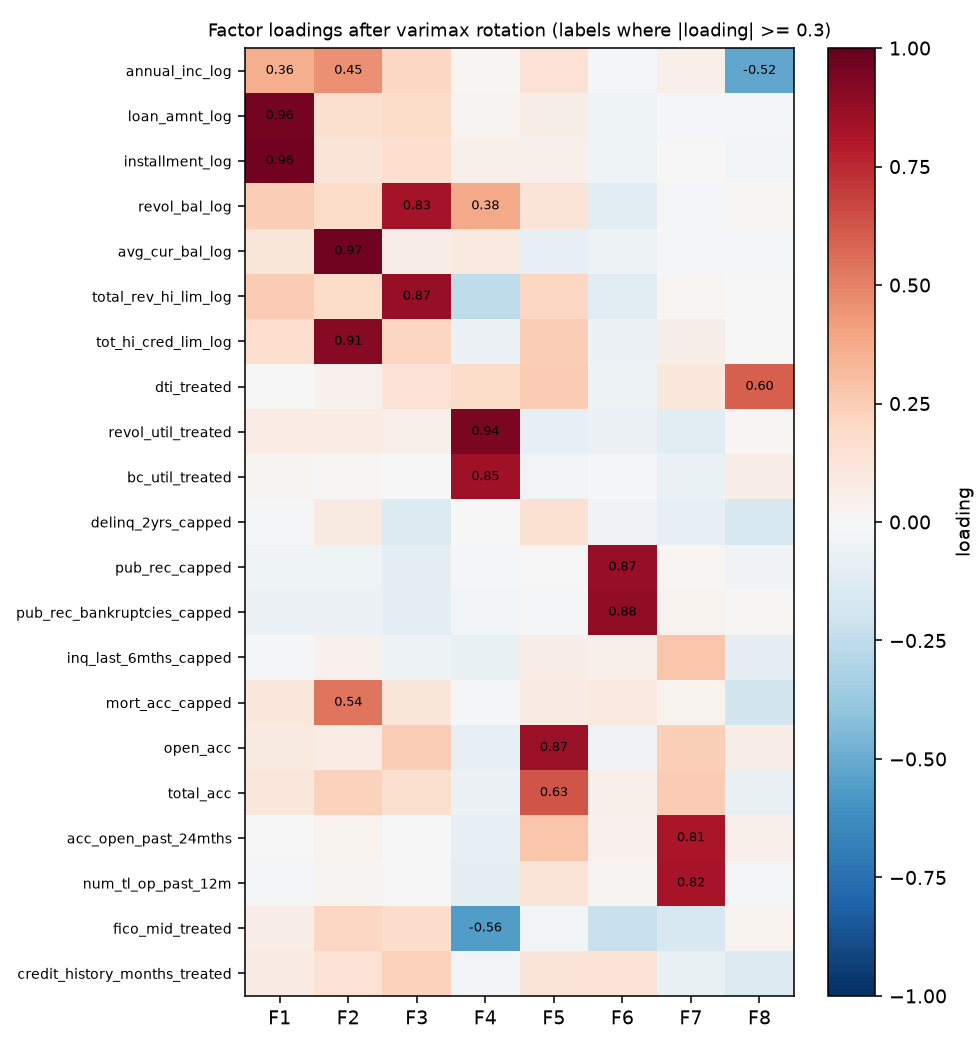
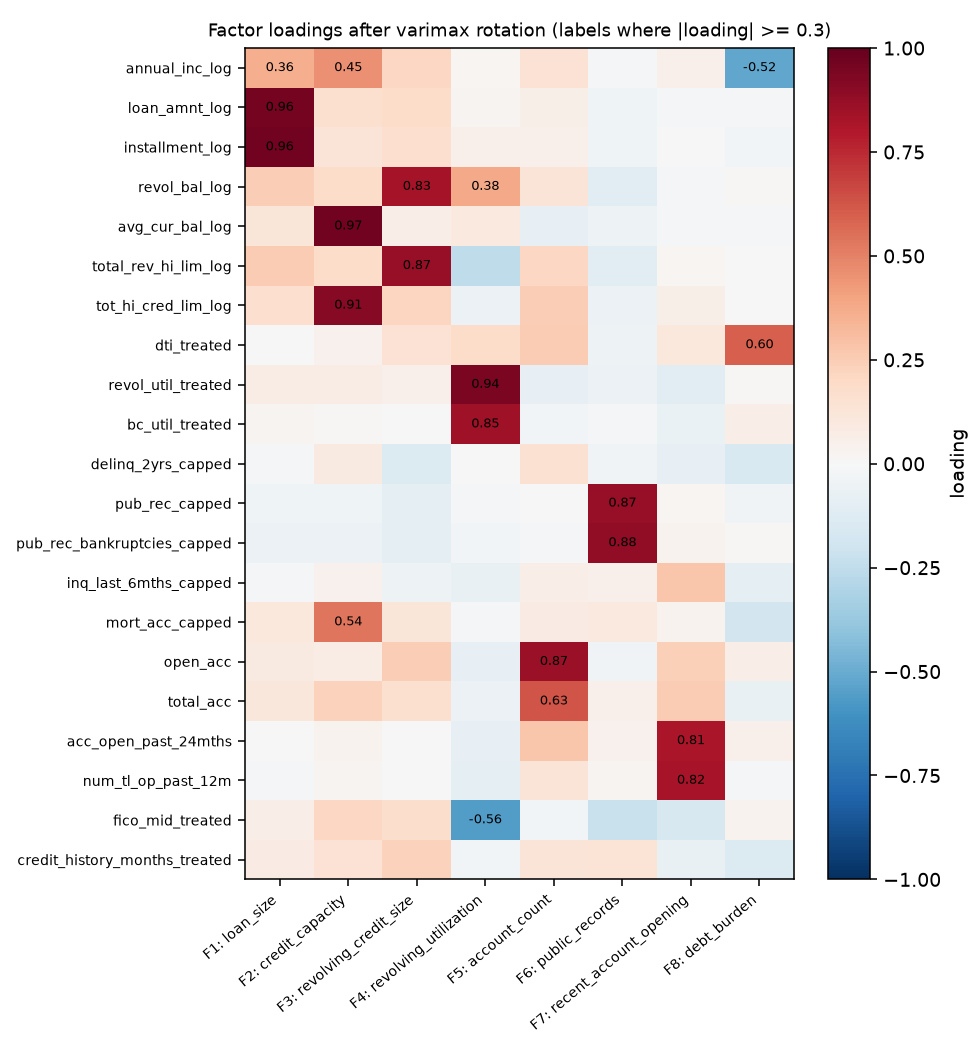
fix: name the factors on the loadings chart and keep the legend off the bars in the calibration chart

Changed region(s): [[0.0306, 0.0305, 1.0, 0.9752], [0.9184, 0.9448, 0.9796, 0.9752], [0.7347, 0.061, 0.7959, 0.0914]]

diff --git a/scripts/a5_factor_analysis.py b/scripts/a5_factor_analysis.py
@@ -16,6 +16,7 @@ from sklearn.metrics import roc_auc_score
 from sklearn.preprocessing import StandardScaler
 
 from credit_risk.factor_fields import FACTOR_FIELDS
+from credit_risk.factors import name_factors
 from credit_risk.factor_tools import bartlett_sphericity, kmo, parallel_analysis, promax, tucker_congruence
 from credit_risk.io import FIT_CUTOFF, load_applications
 from credit_risk.reporting import fresh_dirs
@@ -98,8 +99,9 @@ ax[1].axvline(0.6, color="grey", ls=":", lw=1); ax[1].tick_params(axis="y", labe
 ax[1].set_title(f"Suitability: overall KMO {kmo_all:.2f}", fontsize=10)
 fig.tight_layout(); fig.savefig(FIG / "parallel_analysis_and_kmo.png", dpi=140); plt.close(fig)
 fig, ax = plt.subplots(figsize=(7, 7.5))
+factor_names = name_factors(L)
 im = ax.imshow(L, cmap="RdBu_r", vmin=-1, vmax=1, aspect="auto")
-ax.set_xticks(range(K), L.columns); ax.set_yticks(range(p), L.index, fontsize=7)
+ax.set_xticks(range(K), [f"{c}: {factor_names[c] or 'unnamed'}" for c in L.columns], rotation=40, ha="right", fontsize=7); ax.set_yticks(range(p), L.index, fontsize=7)
 for i in range(p):
     for j in range(K):
         if abs(L.iloc[i, j]) >= 0.3:

diff --git a/scripts/b1_evaluate_model.py b/scripts/b1_evaluate_model.py
@@ -66,7 +66,7 @@ for term, color in [(36, "#2a6f97"), (60, "#c1440e")]:
 ax[0].plot([0, 60], [0, 60], color="grey", ls="--", lw=1); ax[0].set_xlabel("Predicted default rate (%)"); ax[0].set_ylabel("Observed default rate (%)"); ax[0].legend(fontsize=8)
 ax[0].set_title(f"Calibration on 2015 loans ({selected})", fontsize=10)
 by = v15.groupby("quarter").apply(lambda g: pd.Series({"predicted": g[sel].mean() * 100, "observed": g.defaulted.mean() * 100}), include_groups=False)
-by.plot.bar(ax=ax[1], color=["#2a6f97", "#c1440e"], rot=0); ax[1].set_ylabel("Default rate (%)"); ax[1].set_title("Predicted against observed by quarter", fontsize=10)
+by.plot.bar(ax=ax[1], color=["#2a6f97", "#c1440e"], rot=0); ax[1].set_ylabel("Default rate (%)"); ax[1].set_title("Predicted against observed by quarter", fontsize=10); ax[1].set_ylim(0, by.to_numpy().max() * 1.3); ax[1].legend(loc="upper center", ncol=2, fontsize=8)
 fig.tight_layout(); fig.savefig(FIG / "calibration_2015.png", dpi=140); plt.close(fig)
 
 # 4. decision policy: thresholds from the profit assumptions; empirical check on H1; results on H2
